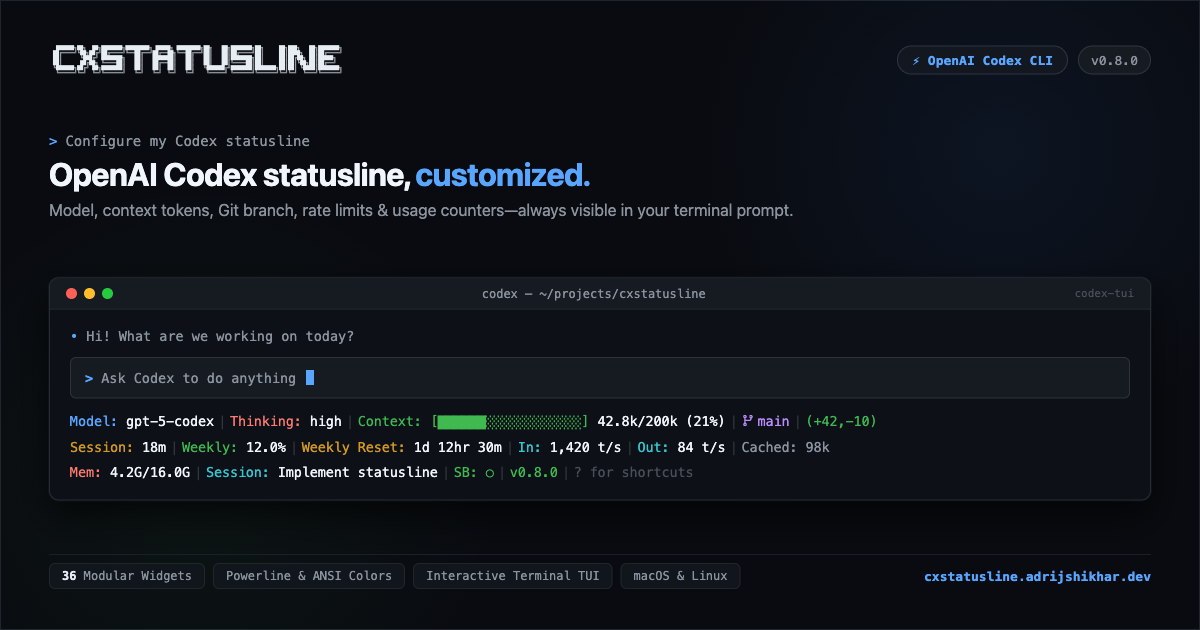
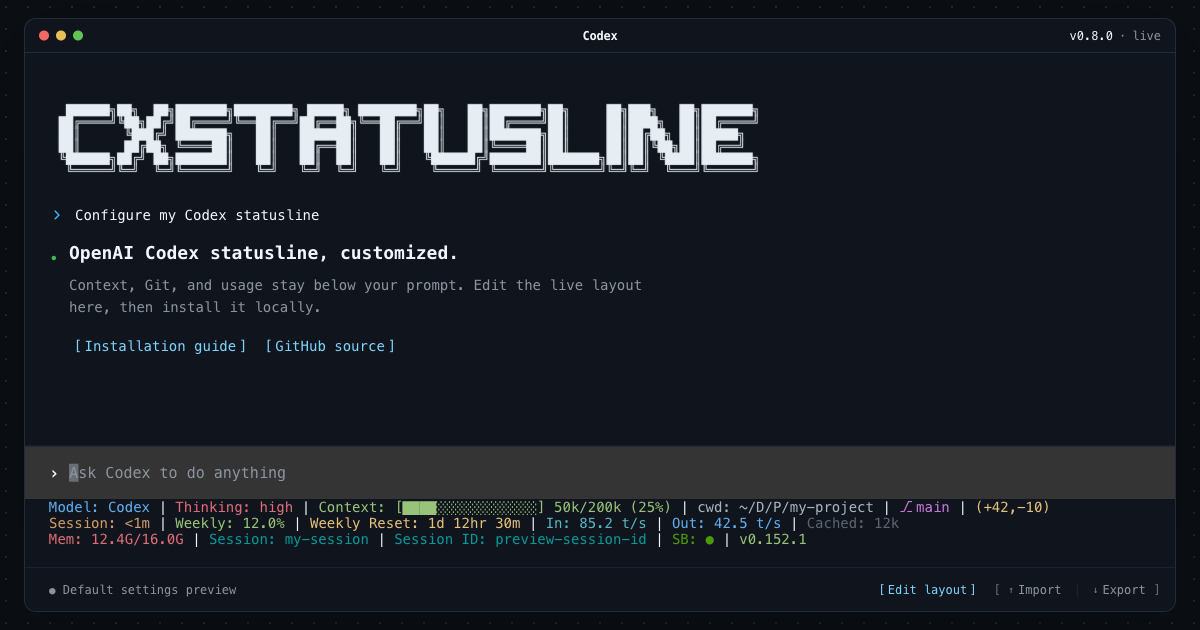
fix(website): fix hero terminal layout to full width and update og-image to match real hero

diff --git a/website/src/styles/playground.css b/website/src/styles/playground.css
@@ -1,4 +1,4 @@
-#playground { display: grid; min-height: 0; align-self: end; border-top: 1px solid var(--line); }
+#playground { display: grid; width: 100%; min-height: 0; margin-top: auto; align-self: stretch; border-top: 1px solid var(--line); }
 #desktop-playground {
   display: flex;
   flex-direction: column;
